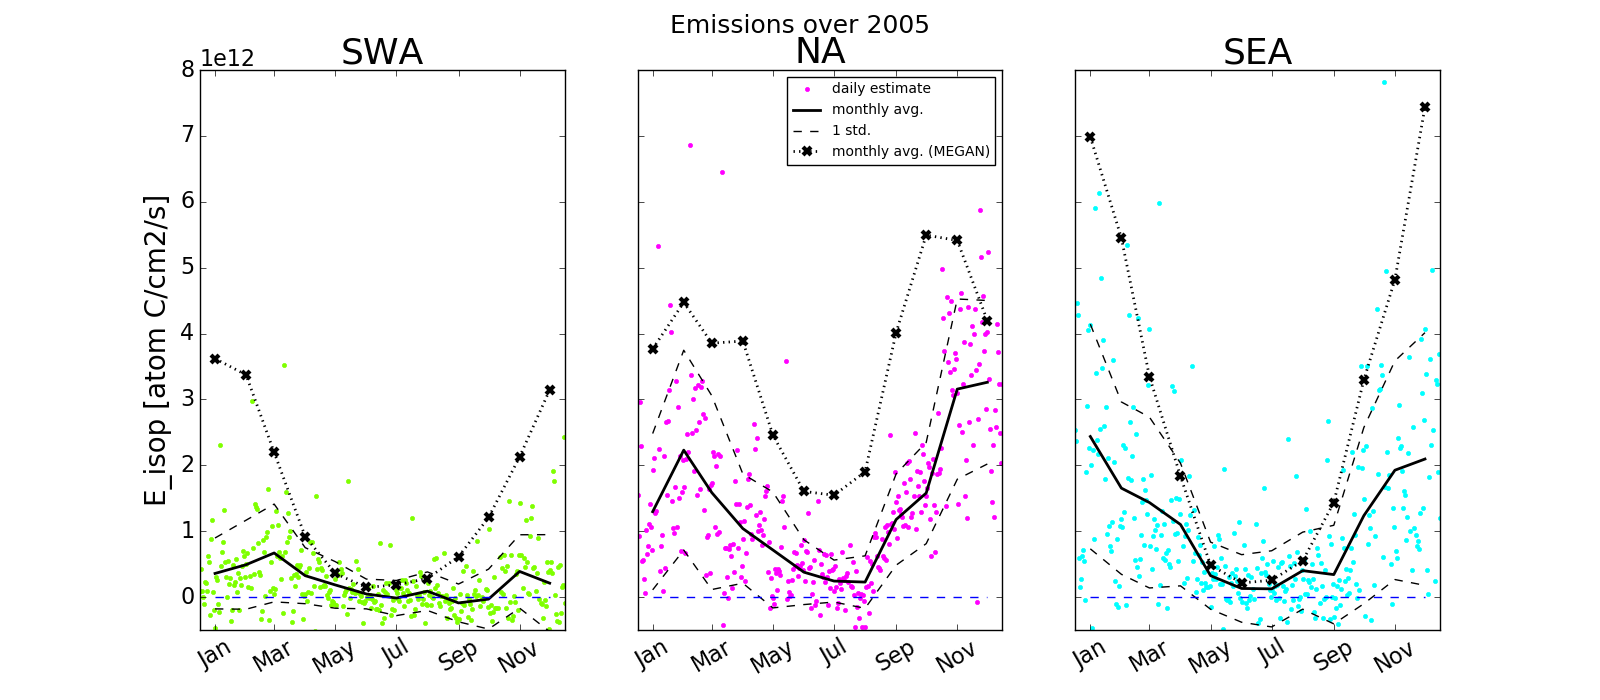
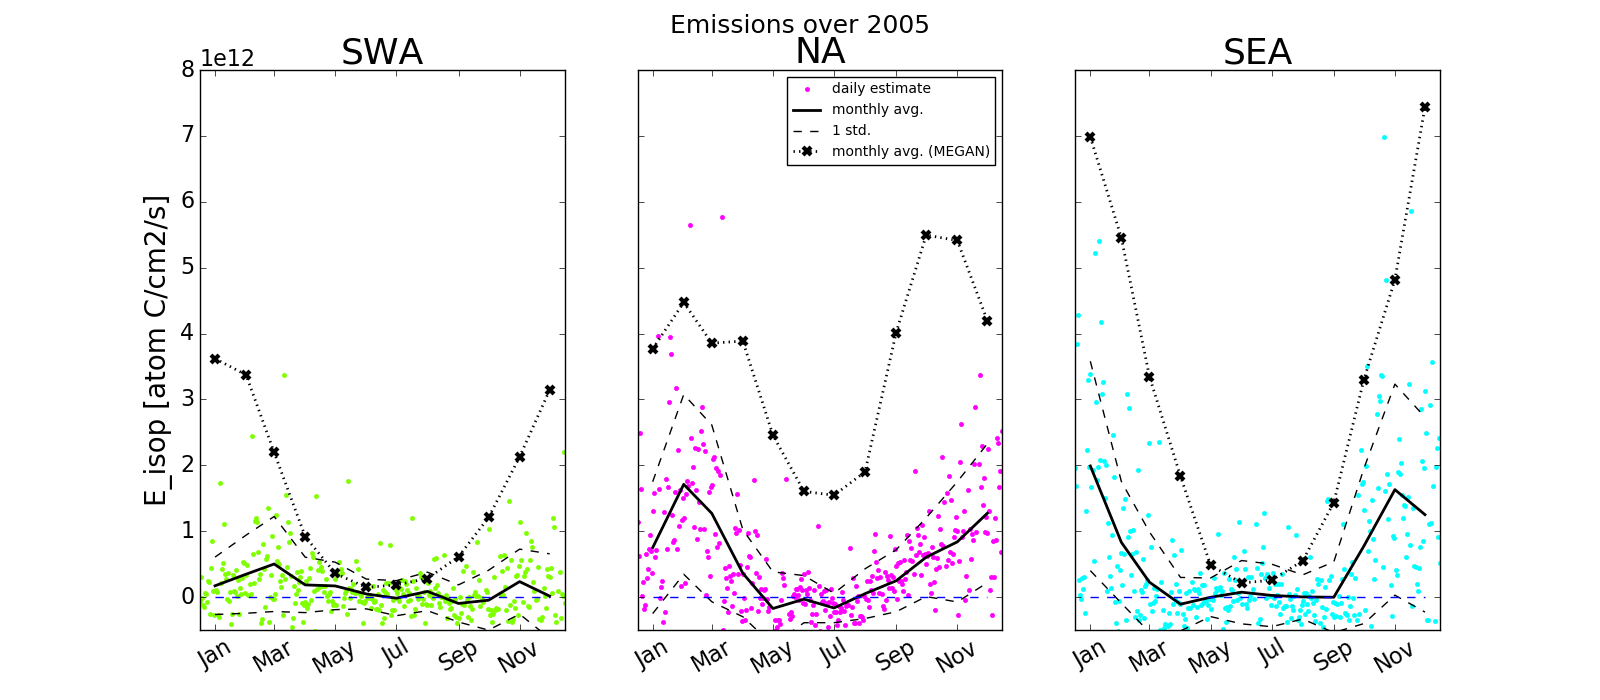
Filtering fire now, E_new updated

diff --git a/classes/omhchorp.py b/classes/omhchorp.py
@@ -114,15 +114,25 @@ class omhchorp:
             self.background=self.get_background_array()
         #self.apply_fire_mask()
 
-    def apply_fire_mask(self, use_8day_mask=True):
+    def apply_fire_mask(self, key='VCC', use_8day_mask=True):
         ''' nanify arrays which are fire affected. '''
         mask = [self.fire_mask_16, self.fire_mask_8][use_8day_mask]
         print ("fire mask:",mask.shape,np.nansum(mask))
-
-        for arr in [self.AMF_GC,self.AMF_OMI,self.AMF_GCz,self.SC,self.VC_GC,
-                    self.VC_OMI,self.VC_OMI_RSC,self.VCC,
-                    self.col_uncertainty_OMI]:
-            arr[mask]=np.NaN
+        print(np.nansum(mask>0))
+        
+        data=getattr(self,key)
+            
+        print(key, data.shape, ' before firemask:',np.nanmean(data))
+        
+        #if len(data.shape) == 3:
+        #    for i in range(data.shape[0]): # loop over time dim
+        data[mask>0]=np.NaN
+        print('     after firemask:',np.nanmean(data))
+        
+        #for arr in [self.AMF_GC,self.AMF_OMI,self.AMF_GCz,self.SC,self.VC_GC,
+        #            self.VC_OMI,self.VC_OMI_RSC,self.VCC,
+        #            self.col_uncertainty_OMI]:
+        #    arr[mask]=np.NaN
 
     def inds_subset(self, lat0=None, lat1=None, lon0=None, lon1=None, maskocean=False, maskland=False):
         ''' return indices of lat, lon arrays within input box '''

diff --git a/Inversion.py b/Inversion.py
@@ -388,6 +388,7 @@ def Emissions(day0, dayn, GC = None, OMI = None,
             'attributes':attrs}
 
 def store_emissions_month(month=datetime(2005,1,1), GC=None, OMI=None,
+                          remove_fires_from_OMI=True,
                           region=pp.__GLOBALREGION__, ignorePP=True):
     '''
         Store a month of new emissions estimates into an he5 file
@@ -411,6 +412,10 @@ def store_emissions_month(month=datetime(2005,1,1), GC=None, OMI=None,
         OMI=omhchorp(day0=day0,dayn=dayn, ignorePP=ignorePP)
     if GC is None:
         GC=GC_class.GC_biogenic(day0) # data like [time,lat,lon,lev]
+
+    # If we're removing fires:
+    if remove_fires_from_OMI:
+        OMI.apply_fire_mask('VCC')
 
     # Read each day then save the month
     #

diff --git a/localtests.py b/localtests.py
@@ -53,9 +53,15 @@ biosat_files="Data/GC_Output/geos5_2x25_tropchem_biogenic/satellite_output/sat_b
 
 ###
 # read biogenic output
-GC=GC_class.GC_biogenic(d0)
-MS=GC.model_slope()
 OMI=omhchorp(d0,)
+print('before:: ',np.nanmean(OMI.VCC))
+OMI.apply_fire_mask('VCC')
+print('after:: ',np.nanmean(OMI.VCC))
 
-enew=Inversion.Emissions_1day(d0,GC,OMI)
-enew.keys()
+pp.createmap(OMI.fire_mask_8,OMI.lats,OMI.lons,linear=True)
+plt.savefig('test_fires.png')
+#GC=GC_class.GC_biogenic(d0)
+#MS=GC.model_slope()
+
+#enew=Inversion.Emissions_1day(d0,GC,OMI)
+#enew.keys()
